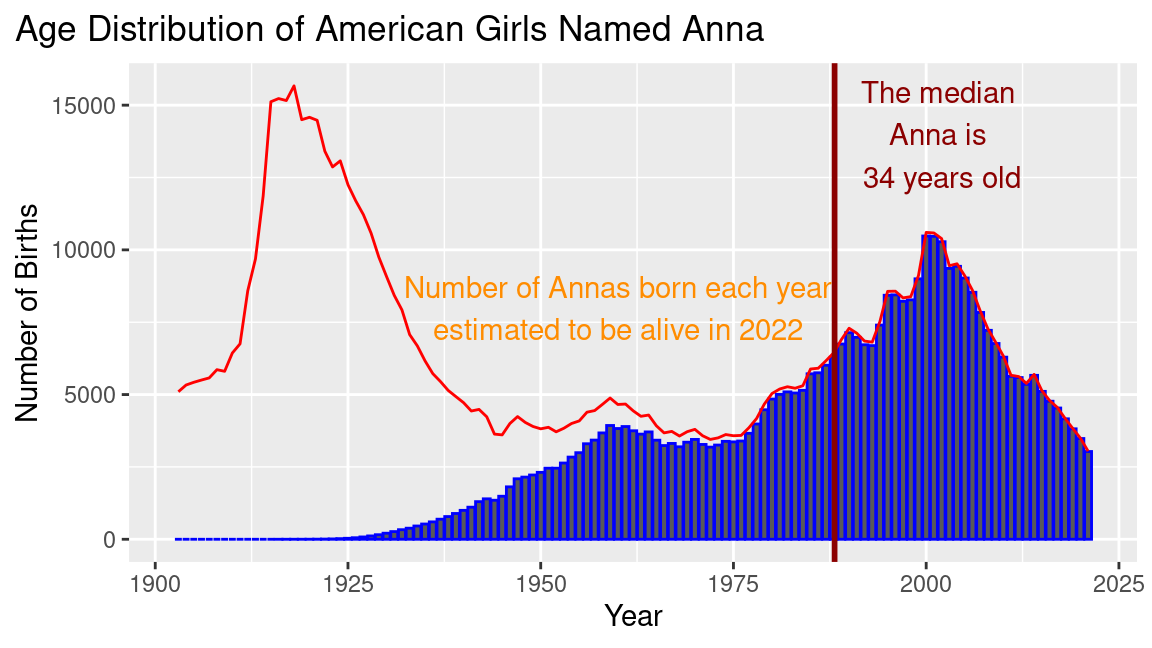
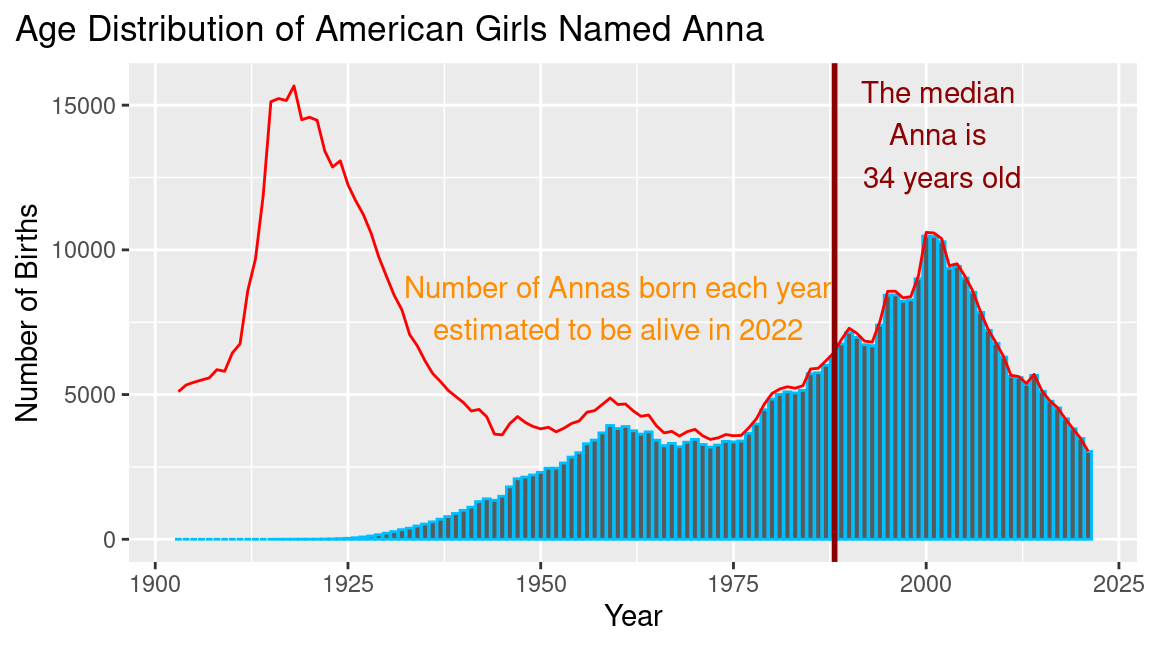
additional changes

Changed region(s): [[0.1562, 0.3704, 0.9688, 0.8333]]

diff --git a/projects/project-02/project-02-estimate-age-from-name.md b/projects/project-02/project-02-estimate-age-from-name.md
@@ -254,20 +254,20 @@ tbl_lifetables_extended_2022 <- tbl_lifetables_extended |>
 
 tbl_lifetables_extended_2022 |> 
   # Initialize a ggplot of year vs. probability of being alive (lx/10^5)
-  ggplot(aes(x= year, y =- lx))+
+  ggplot(aes(x= year, y = lx/10^5))+
   # Add a line layer
-  geom_line()+
+  geom_line(color = 'limegreen')+
   # Add a step layer for the non-imputed data
   geom_step(
     data = function(d) filter(d, !is_imputed),
-    linetype = 'dashed'
+    linetype = 'dashed', color = 'deepskyblue1'
   ) +
   # Add labels (title, subtitle, x, y, caption)
   labs(
-    title = "Survival curve for a person to be alive in 2022",
+    title = "Probability of survival over the years",
     
     x = "Year",
-    y = "Probability of being alive ",
+    y = "Probability ",
     caption = "Source:https://www.ssa.gov/oact/NOTES/as120/LifeTables_Tbl_6_1990.html"
   ) +
   
@@ -377,7 +377,7 @@ plot_estimated_age <- function(tbl, my_name, my_sex) {
     # Initialize a ggplot with x = year
     ggplot(aes(x= year))+
     # Add a column layer with y = nb_alive, and appropriate colors
-    geom_col(aes(y = nb_alive), color = 'blue')+
+    geom_col(aes(y = nb_alive), color = 'deepskyblue1')+
     # Add a line layer with y = nb_births, and appropriate colors
     geom_line(aes(y = nb_births), color = 'red')+
     # Add a vertical line for the median age
@@ -521,7 +521,7 @@ tbl_names_extended_age |>
   geom_point(size = 2, color = "red") +
   # Add labels (title, subtitle, x, y)
   labs(
-    title = "Meadian Ages for Females with the  25 most common names",
+    title = "Median Ages for Females with the  25 most common names",
      x = "Age ",
     y = "Name"
    
